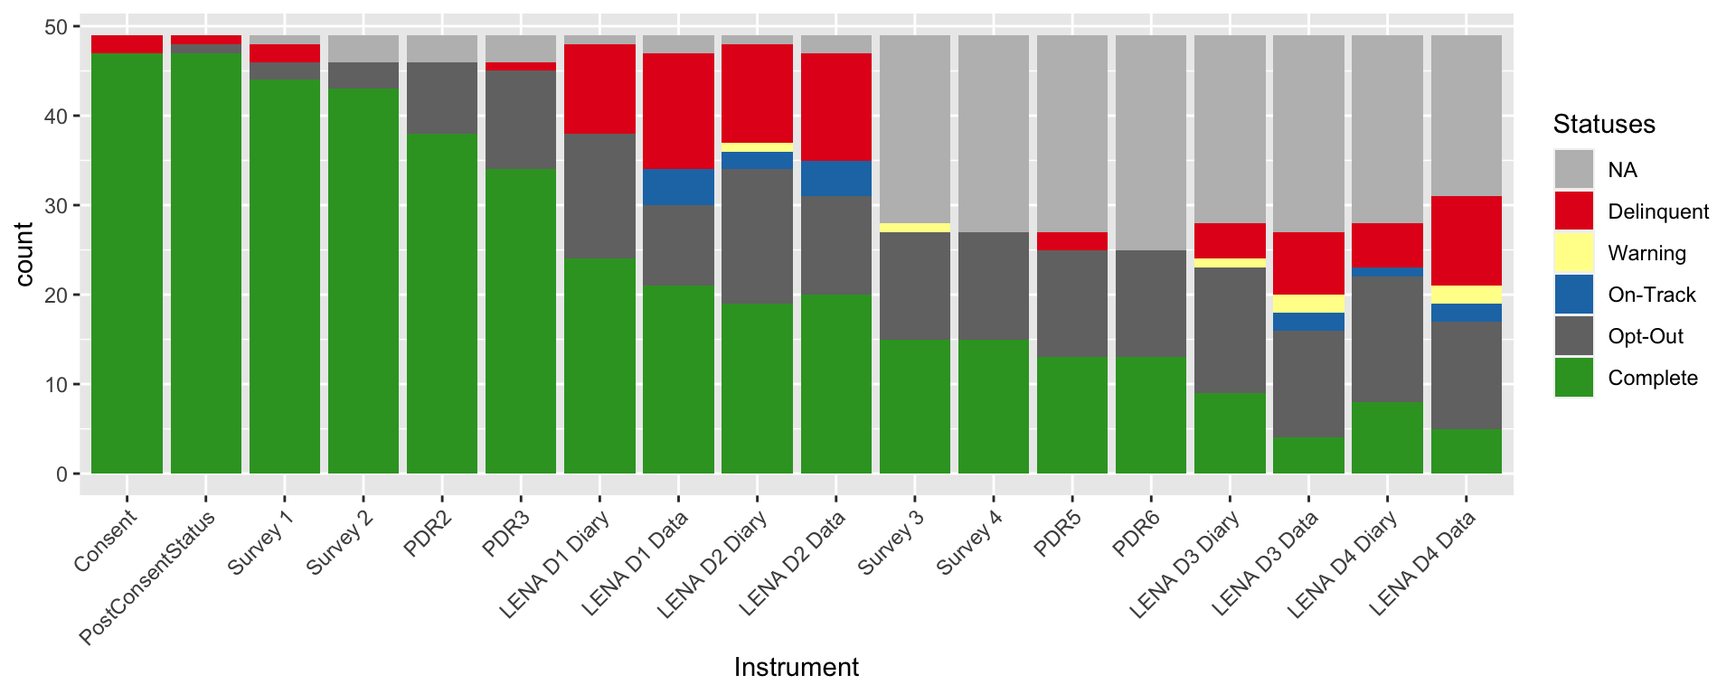
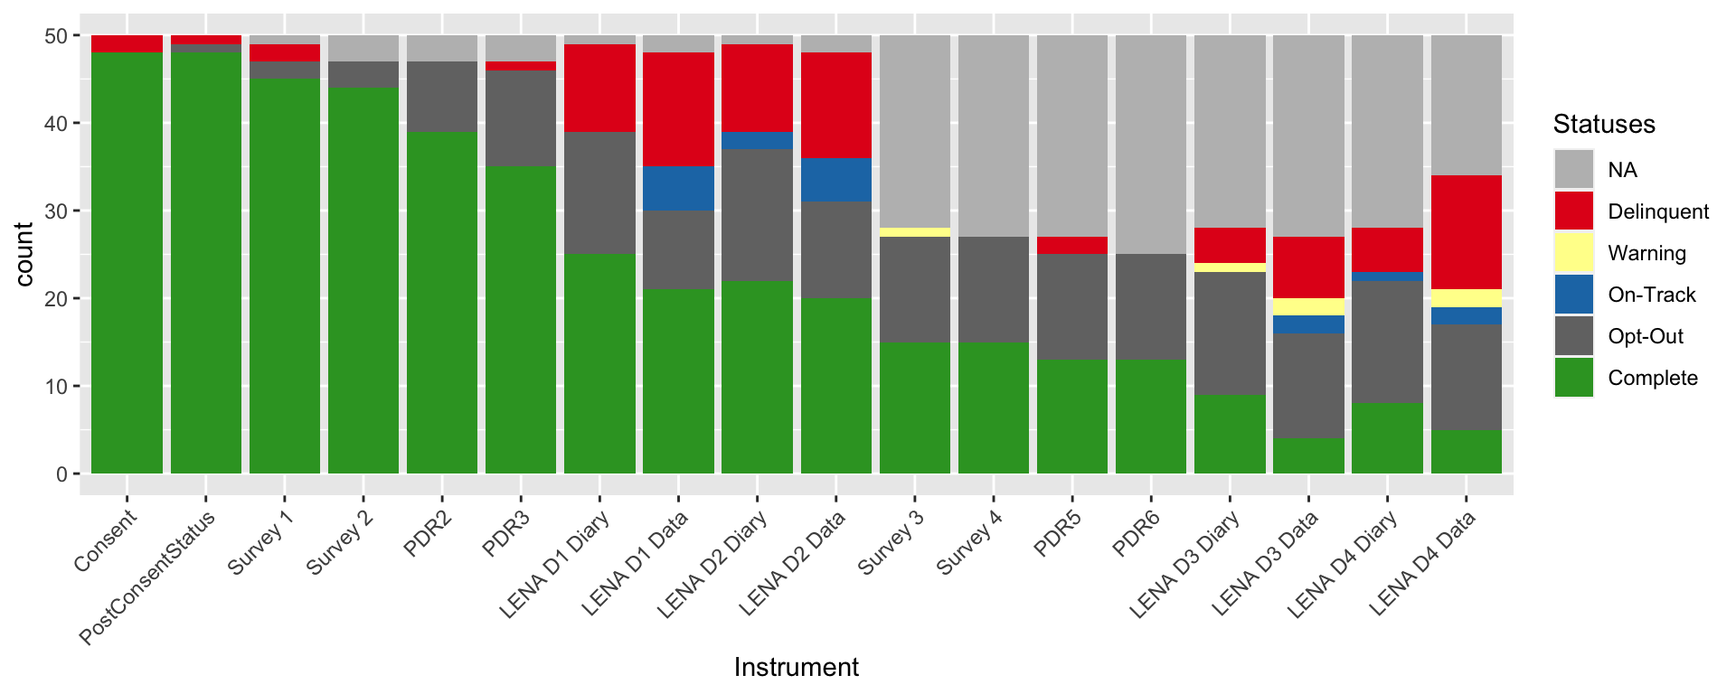
Update definitions

diff --git a/_site/reports.html b/_site/reports.html
@@ -399,7 +399,7 @@ $(document).ready(function () {
 </div>
 <center>
 <div id="htmlwidget-1fcff53b1c506bc87854" style="width:960px;height:384px;" class="plotly html-widget"></div>
-<script type="application/json" data-for="htmlwidget-1fcff53b1c506bc87854">{"x":{"data":[{"x":[1594210295,1595855440,1595947129,1596636699,1597147658,1597190400,1597276800,1597402867,1598436608,1598538979,1598541299,1598955066,1599570320,1600250194,1600255992,1600300800,1600355481,1600387200,1600863340,1601302221,1601566658,1602239005,1603368728,1603379955,1603670400,1603977413,1604491899,1604751373,1605089156,1605139200,1605179257,1605721538,1605872792,1607040000,1607472000,1607644800,1607687486,1609891200,1609897301,1611187200,1611878400,1612396800,1612396800,1612396800,1611878400,1611187200,1609897301,1609891200,1607687486,1607644800,1607472000,1607040000,1605872792,1605721538,1605179257,1605139200,1605089156,1604751373,1604491899,1603977413,1603670400,1603379955,1603368728,1602239005,1601566658,1601302221,1600863340,1600387200,1600355481,1600300800,1600255992,1600250194,1599570320,1598955066,1598541299,1598538979,1598436608,1597402867,1597276800,1597190400,1597147658,1596636699,1595947129,1595855440,1594210295,1594210295],"y":[0,0,0,0,0,0,0,0,0,0,0,0,0,0,0,0,0,0,0,0,0,0,0,0,0,0,0,0,0,0,0,0,0,0,0,0,0,0,0,0,0,0,0,43,42,41,40,39,38,37,36,35,34,33,32,31,30,29,28,27,26,25,24,23,22,21,20,19,18,17,16,15,14,13,12,11,10,9,8,6,5,4,3,2,1,0],"text":["InformedConsent: 2020-07-08 19:11:35<br />Cumulative:  1","InformedConsent: 2020-07-27 20:10:40<br />Cumulative:  2","InformedConsent: 2020-07-28 21:38:49<br />Cumulative:  3","InformedConsent: 2020-08-05 21:11:39<br />Cumulative:  4","InformedConsent: 2020-08-11 19:07:38<br />Cumulative:  5","InformedConsent: 2020-08-12 07:00:00<br />Cumulative:  6","InformedConsent: 2020-08-13 07:00:00<br />Cumulative:  8","InformedConsent: 2020-08-14 18:01:07<br />Cumulative:  9","InformedConsent: 2020-08-26 17:10:08<br />Cumulative: 10","InformedConsent: 2020-08-27 21:36:19<br />Cumulative: 11","InformedConsent: 2020-08-27 22:14:59<br />Cumulative: 12","InformedConsent: 2020-09-01 17:11:06<br />Cumulative: 13","InformedConsent: 2020-09-08 20:05:20<br />Cumulative: 14","InformedConsent: 2020-09-16 16:56:34<br />Cumulative: 15","InformedConsent: 2020-09-16 18:33:12<br />Cumulative: 16","InformedConsent: 2020-09-17 07:00:00<br />Cumulative: 17","InformedConsent: 2020-09-17 22:11:21<br />Cumulative: 18","InformedConsent: 2020-09-18 07:00:00<br />Cumulative: 19","InformedConsent: 2020-09-23 19:15:40<br />Cumulative: 20","InformedConsent: 2020-09-28 21:10:21<br />Cumulative: 21","InformedConsent: 2020-10-01 22:37:38<br />Cumulative: 22","InformedConsent: 2020-10-09 17:23:25<br />Cumulative: 23","InformedConsent: 2020-10-22 19:12:08<br />Cumulative: 24","InformedConsent: 2020-10-22 22:19:15<br />Cumulative: 25","InformedConsent: 2020-10-26 07:00:00<br />Cumulative: 26","InformedConsent: 2020-10-29 20:16:53<br />Cumulative: 27","InformedConsent: 2020-11-04 20:11:39<br />Cumulative: 28","InformedConsent: 2020-11-07 20:16:13<br />Cumulative: 29","InformedConsent: 2020-11-11 18:05:56<br />Cumulative: 30","InformedConsent: 2020-11-12 08:00:00<br />Cumulative: 31","InformedConsent: 2020-11-12 19:07:37<br />Cumulative: 32","InformedConsent: 2020-11-19 01:45:38<br />Cumulative: 33","InformedConsent: 2020-11-20 19:46:32<br />Cumulative: 34","InformedConsent: 2020-12-04 08:00:00<br />Cumulative: 35","InformedConsent: 2020-12-09 08:00:00<br />Cumulative: 36","InformedConsent: 2020-12-11 08:00:00<br />Cumulative: 37","InformedConsent: 2020-12-11 19:51:26<br />Cumulative: 38","InformedConsent: 2021-01-06 08:00:00<br />Cumulative: 39","InformedConsent: 2021-01-06 09:41:41<br />Cumulative: 40","InformedConsent: 2021-01-21 08:00:00<br />Cumulative: 41","InformedConsent: 2021-01-29 08:00:00<br />Cumulative: 42","InformedConsent: 2021-02-04 08:00:00<br />Cumulative: 43","InformedConsent: 2021-02-04 08:00:00<br />Cumulative: 43","InformedConsent: 2021-02-04 08:00:00<br />Cumulative: 43","InformedConsent: 2021-01-29 08:00:00<br />Cumulative: 42","InformedConsent: 2021-01-21 08:00:00<br />Cumulative: 41","InformedConsent: 2021-01-06 09:41:41<br />Cumulative: 40","InformedConsent: 2021-01-06 08:00:00<br />Cumulative: 39","InformedConsent: 2020-12-11 19:51:26<br />Cumulative: 38","InformedConsent: 2020-12-11 08:00:00<br />Cumulative: 37","InformedConsent: 2020-12-09 08:00:00<br />Cumulative: 36","InformedConsent: 2020-12-04 08:00:00<br />Cumulative: 35","InformedConsent: 2020-11-20 19:46:32<br />Cumulative: 34","InformedConsent: 2020-11-19 01:45:38<br />Cumulative: 33","InformedConsent: 2020-11-12 19:07:37<br />Cumulative: 32","InformedConsent: 2020-11-12 08:00:00<br />Cumulative: 31","InformedConsent: 2020-11-11 18:05:56<br />Cumulative: 30","InformedConsent: 2020-11-07 20:16:13<br />Cumulative: 29","InformedConsent: 2020-11-04 20:11:39<br />Cumulative: 28","InformedConsent: 2020-10-29 20:16:53<br />Cumulative: 27","InformedConsent: 2020-10-26 07:00:00<br />Cumulative: 26","InformedConsent: 2020-10-22 22:19:15<br />Cumulative: 25","InformedConsent: 2020-10-22 19:12:08<br />Cumulative: 24","InformedConsent: 2020-10-09 17:23:25<br />Cumulative: 23","InformedConsent: 2020-10-01 22:37:38<br />Cumulative: 22","InformedConsent: 2020-09-28 21:10:21<br />Cumulative: 21","InformedConsent: 2020-09-23 19:15:40<br />Cumulative: 20","InformedConsent: 2020-09-18 07:00:00<br />Cumulative: 19","InformedConsent: 2020-09-17 22:11:21<br />Cumulative: 18","InformedConsent: 2020-09-17 07:00:00<br />Cumulative: 17","InformedConsent: 2020-09-16 18:33:12<br />Cumulative: 16","InformedConsent: 2020-09-16 16:56:34<br />Cumulative: 15","InformedConsent: 2020-09-08 20:05:20<br />Cumulative: 14","InformedConsent: 2020-09-01 17:11:06<br />Cumulative: 13","InformedConsent: 2020-08-27 22:14:59<br />Cumulative: 12","InformedConsent: 2020-08-27 21:36:19<br />Cumulative: 11","InformedConsent: 2020-08-26 17:10:08<br />Cumulative: 10","InformedConsent: 2020-08-14 18:01:07<br />Cumulative:  9","InformedConsent: 2020-08-13 07:00:00<br />Cumulative:  8","InformedConsent: 2020-08-12 07:00:00<br />Cumulative:  6","InformedConsent: 2020-08-11 19:07:38<br />Cumulative:  5","InformedConsent: 2020-08-05 21:11:39<br />Cumulative:  4","InformedConsent: 2020-07-28 21:38:49<br />Cumulative:  3","InformedConsent: 2020-07-27 20:10:40<br />Cumulative:  2","InformedConsent: 2020-07-08 19:11:35<br />Cumulative:  1","InformedConsent: 2020-07-08 19:11:35<br />Cumulative:  1"],"type":"scatter","mode":"lines","line":{"width":1.88976377952756,"color":"transparent","dash":"solid"},"fill":"toself","fillcolor":"rgba(105,179,162,0.5)","hoveron":"points","showlegend":false,"xaxis":"x","yaxis":"y","hoverinfo":"text","frame":null},{"x":[1594210295,1595855440,1595947129,1596636699,1597147658,1597190400,1597276800,1597402867,1598436608,1598538979,1598541299,1598955066,1599570320,1600250194,1600255992,1600300800,1600355481,1600387200,1600863340,1601302221,1601566658,1602239005,1603368728,1603379955,1603670400,1603977413,1604491899,1604751373,1605089156,1605139200,1605179257,1605721538,1605872792,1607040000,1607472000,1607644800,1607687486,1609891200,1609897301,1611187200,1611878400,1612396800,null],"y":[1,2,3,4,5,6,8,9,10,11,12,13,14,15,16,17,18,19,20,21,22,23,24,25,26,27,28,29,30,31,32,33,34,35,36,37,38,39,40,41,42,43,48],"text":["InformedConsent: 2020-07-08 12:11:35<br />Cumulative:  1","InformedConsent: 2020-07-27 13:10:40<br />Cumulative:  2","InformedConsent: 2020-07-28 14:38:49<br />Cumulative:  3","InformedConsent: 2020-08-05 14:11:39<br />Cumulative:  4","InformedConsent: 2020-08-11 12:07:38<br />Cumulative:  5","InformedConsent: 2020-08-12 00:00:00<br />Cumulative:  6","InformedConsent: 2020-08-13 00:00:00<br />Cumulative:  8","InformedConsent: 2020-08-14 11:01:07<br />Cumulative:  9","InformedConsent: 2020-08-26 10:10:08<br />Cumulative: 10","InformedConsent: 2020-08-27 14:36:19<br />Cumulative: 11","InformedConsent: 2020-08-27 15:14:59<br />Cumulative: 12","InformedConsent: 2020-09-01 10:11:06<br />Cumulative: 13","InformedConsent: 2020-09-08 13:05:20<br />Cumulative: 14","InformedConsent: 2020-09-16 09:56:34<br />Cumulative: 15","InformedConsent: 2020-09-16 11:33:12<br />Cumulative: 16","InformedConsent: 2020-09-17 00:00:00<br />Cumulative: 17","InformedConsent: 2020-09-17 15:11:21<br />Cumulative: 18","InformedConsent: 2020-09-18 00:00:00<br />Cumulative: 19","InformedConsent: 2020-09-23 12:15:40<br />Cumulative: 20","InformedConsent: 2020-09-28 14:10:21<br />Cumulative: 21","InformedConsent: 2020-10-01 15:37:38<br />Cumulative: 22","InformedConsent: 2020-10-09 10:23:25<br />Cumulative: 23","InformedConsent: 2020-10-22 12:12:08<br />Cumulative: 24","InformedConsent: 2020-10-22 15:19:15<br />Cumulative: 25","InformedConsent: 2020-10-26 00:00:00<br />Cumulative: 26","InformedConsent: 2020-10-29 13:16:53<br />Cumulative: 27","InformedConsent: 2020-11-04 12:11:39<br />Cumulative: 28","InformedConsent: 2020-11-07 12:16:13<br />Cumulative: 29","InformedConsent: 2020-11-11 10:05:56<br />Cumulative: 30","InformedConsent: 2020-11-12 00:00:00<br />Cumulative: 31","InformedConsent: 2020-11-12 11:07:37<br />Cumulative: 32","InformedConsent: 2020-11-18 17:45:38<br />Cumulative: 33","InformedConsent: 2020-11-20 11:46:32<br />Cumulative: 34","InformedConsent: 2020-12-04 00:00:00<br />Cumulative: 35","InformedConsent: 2020-12-09 00:00:00<br />Cumulative: 36","InformedConsent: 2020-12-11 00:00:00<br />Cumulative: 37","InformedConsent: 2020-12-11 11:51:26<br />Cumulative: 38","InformedConsent: 2021-01-06 00:00:00<br />Cumulative: 39","InformedConsent: 2021-01-06 01:41:41<br />Cumulative: 40","InformedConsent: 2021-01-21 00:00:00<br />Cumulative: 41","InformedConsent: 2021-01-29 00:00:00<br />Cumulative: 42","InformedConsent: 2021-02-04 00:00:00<br />Cumulative: 43","InformedConsent: NA<br />Cumulative: 48"],"type":"scatter","mode":"lines","line":{"width":1.88976377952756,"color":"rgba(105,179,162,1)","dash":"solid"},"hoveron":"points","showlegend":false,"xaxis":"x","yaxis":"y","hoverinfo":"text","frame":null}],"layout":{"margin":{"t":65.813200498132,"r":39.8505603985056,"b":80.8634288086343,"l":70.9007887090079},"font":{"color":"rgba(0,0,0,1)","family":"Arial Narrow","size":15.2760481527605},"xaxis":{"domain":[0,1],"automargin":true,"type":"linear","autorange":false,"range":[1593300969.75,1613306125.25],"tickmode":"array","ticktext":["Jul","Oct","Jan"],"tickvals":[1593561600,1601510400,1609459200],"categoryorder":"array","categoryarray":["Jul","Oct","Jan"],"nticks":null,"ticks":"","tickcolor":null,"ticklen":3.81901203819012,"tickwidth":0,"showticklabels":true,"tickfont":{"color":"rgba(77,77,77,1)","family":"Arial Narrow","size":15.2760481527605},"tickangle":-0,"showline":false,"linecolor":null,"linewidth":0,"showgrid":true,"gridcolor":"rgba(204,204,204,1)","gridwidth":0.265670402656704,"zeroline":false,"anchor":"y","title":{"text":"Time","font":{"color":"rgba(0,0,0,1)","family":"Arial Narrow","size":11.9551681195517}},"hoverformat":".2f"},"yaxis":{"domain":[0,1],"automargin":true,"type":"linear","autorange":false,"range":[-2.4,50.4],"tickmode":"array","ticktext":["0","10","20","30","40","50"],"tickvals":[0,10,20,30,40,50],"categoryorder":"array","categoryarray":["0","10","20","30","40","50"],"nticks":null,"ticks":"","tickcolor":null,"ticklen":3.81901203819012,"tickwidth":0,"showticklabels":true,"tickfont":{"color":"rgba(77,77,77,1)","family":"Arial Narrow","size":15.2760481527605},"tickangle":-0,"showline":false,"linecolor":null,"linewidth":0,"showgrid":true,"gridcolor":"rgba(204,204,204,1)","gridwidth":0.265670402656704,"zeroline":false,"anchor":"x","title":{"text":"Dyad Count","font":{"color":"rgba(0,0,0,1)","family":"Arial Narrow","size":11.9551681195517}},"hoverformat":".2f"},"shapes":[{"type":"rect","fillcolor":null,"line":{"color":null,"width":0,"linetype":[]},"yref":"paper","xref":"paper","x0":0,"x1":1,"y0":0,"y1":1}],"showlegend":false,"legend":{"bgcolor":null,"bordercolor":null,"borderwidth":0,"font":{"color":"rgba(0,0,0,1)","family":"Arial Narrow","size":12.2208385222084}},"hovermode":"closest","barmode":"relative"},"config":{"doubleClick":"reset","showSendToCloud":false},"source":"A","attrs":{"32694aafd9cc":{"x":{},"y":{},"type":"scatter"},"32695f040662":{"x":{},"y":{}}},"cur_data":"32694aafd9cc","visdat":{"32694aafd9cc":["function (y) ","x"],"32695f040662":["function (y) ","x"]},"highlight":{"on":"plotly_click","persistent":false,"dynamic":false,"selectize":false,"opacityDim":0.2,"selected":{"opacity":1},"debounce":0},"shinyEvents":["plotly_hover","plotly_click","plotly_selected","plotly_relayout","plotly_brushed","plotly_brushing","plotly_clickannotation","plotly_doubleclick","plotly_deselect","plotly_afterplot","plotly_sunburstclick"],"base_url":"https://plot.ly"},"evals":[],"jsHooks":[]}</script><img src="reports_files/figure-html/SEAL%20Conditions%20Plot-2.png" width="960" />
+<script type="application/json" data-for="htmlwidget-1fcff53b1c506bc87854">{"x":{"data":[{"x":[1594210295,1595855440,1595947129,1596636699,1597147658,1597190400,1597276800,1597402867,1598436608,1598538979,1598541299,1598955066,1599570320,1600250194,1600255992,1600300800,1600355481,1600387200,1600863340,1601302221,1601566658,1602239005,1603368728,1603379955,1603670400,1603977413,1604491899,1604751373,1605089156,1605139200,1605179257,1605721538,1605872792,1607040000,1607472000,1607644800,1607687486,1609891200,1609897301,1611187200,1611878400,1612396800,1612396800,1612396800,1611878400,1611187200,1609897301,1609891200,1607687486,1607644800,1607472000,1607040000,1605872792,1605721538,1605179257,1605139200,1605089156,1604751373,1604491899,1603977413,1603670400,1603379955,1603368728,1602239005,1601566658,1601302221,1600863340,1600387200,1600355481,1600300800,1600255992,1600250194,1599570320,1598955066,1598541299,1598538979,1598436608,1597402867,1597276800,1597190400,1597147658,1596636699,1595947129,1595855440,1594210295,1594210295],"y":[0,0,0,0,0,0,0,0,0,0,0,0,0,0,0,0,0,0,0,0,0,0,0,0,0,0,0,0,0,0,0,0,0,0,0,0,0,0,0,0,0,0,0,43,42,41,40,39,38,37,36,35,34,33,32,31,30,29,28,27,26,25,24,23,22,21,20,19,18,17,16,15,14,13,12,11,10,9,8,6,5,4,3,2,1,0],"text":["InformedConsent: 2020-07-08 19:11:35<br />Cumulative:  1","InformedConsent: 2020-07-27 20:10:40<br />Cumulative:  2","InformedConsent: 2020-07-28 21:38:49<br />Cumulative:  3","InformedConsent: 2020-08-05 21:11:39<br />Cumulative:  4","InformedConsent: 2020-08-11 19:07:38<br />Cumulative:  5","InformedConsent: 2020-08-12 07:00:00<br />Cumulative:  6","InformedConsent: 2020-08-13 07:00:00<br />Cumulative:  8","InformedConsent: 2020-08-14 18:01:07<br />Cumulative:  9","InformedConsent: 2020-08-26 17:10:08<br />Cumulative: 10","InformedConsent: 2020-08-27 21:36:19<br />Cumulative: 11","InformedConsent: 2020-08-27 22:14:59<br />Cumulative: 12","InformedConsent: 2020-09-01 17:11:06<br />Cumulative: 13","InformedConsent: 2020-09-08 20:05:20<br />Cumulative: 14","InformedConsent: 2020-09-16 16:56:34<br />Cumulative: 15","InformedConsent: 2020-09-16 18:33:12<br />Cumulative: 16","InformedConsent: 2020-09-17 07:00:00<br />Cumulative: 17","InformedConsent: 2020-09-17 22:11:21<br />Cumulative: 18","InformedConsent: 2020-09-18 07:00:00<br />Cumulative: 19","InformedConsent: 2020-09-23 19:15:40<br />Cumulative: 20","InformedConsent: 2020-09-28 21:10:21<br />Cumulative: 21","InformedConsent: 2020-10-01 22:37:38<br />Cumulative: 22","InformedConsent: 2020-10-09 17:23:25<br />Cumulative: 23","InformedConsent: 2020-10-22 19:12:08<br />Cumulative: 24","InformedConsent: 2020-10-22 22:19:15<br />Cumulative: 25","InformedConsent: 2020-10-26 07:00:00<br />Cumulative: 26","InformedConsent: 2020-10-29 20:16:53<br />Cumulative: 27","InformedConsent: 2020-11-04 20:11:39<br />Cumulative: 28","InformedConsent: 2020-11-07 20:16:13<br />Cumulative: 29","InformedConsent: 2020-11-11 18:05:56<br />Cumulative: 30","InformedConsent: 2020-11-12 08:00:00<br />Cumulative: 31","InformedConsent: 2020-11-12 19:07:37<br />Cumulative: 32","InformedConsent: 2020-11-19 01:45:38<br />Cumulative: 33","InformedConsent: 2020-11-20 19:46:32<br />Cumulative: 34","InformedConsent: 2020-12-04 08:00:00<br />Cumulative: 35","InformedConsent: 2020-12-09 08:00:00<br />Cumulative: 36","InformedConsent: 2020-12-11 08:00:00<br />Cumulative: 37","InformedConsent: 2020-12-11 19:51:26<br />Cumulative: 38","InformedConsent: 2021-01-06 08:00:00<br />Cumulative: 39","InformedConsent: 2021-01-06 09:41:41<br />Cumulative: 40","InformedConsent: 2021-01-21 08:00:00<br />Cumulative: 41","InformedConsent: 2021-01-29 08:00:00<br />Cumulative: 42","InformedConsent: 2021-02-04 08:00:00<br />Cumulative: 43","InformedConsent: 2021-02-04 08:00:00<br />Cumulative: 43","InformedConsent: 2021-02-04 08:00:00<br />Cumulative: 43","InformedConsent: 2021-01-29 08:00:00<br />Cumulative: 42","InformedConsent: 2021-01-21 08:00:00<br />Cumulative: 41","InformedConsent: 2021-01-06 09:41:41<br />Cumulative: 40","InformedConsent: 2021-01-06 08:00:00<br />Cumulative: 39","InformedConsent: 2020-12-11 19:51:26<br />Cumulative: 38","InformedConsent: 2020-12-11 08:00:00<br />Cumulative: 37","InformedConsent: 2020-12-09 08:00:00<br />Cumulative: 36","InformedConsent: 2020-12-04 08:00:00<br />Cumulative: 35","InformedConsent: 2020-11-20 19:46:32<br />Cumulative: 34","InformedConsent: 2020-11-19 01:45:38<br />Cumulative: 33","InformedConsent: 2020-11-12 19:07:37<br />Cumulative: 32","InformedConsent: 2020-11-12 08:00:00<br />Cumulative: 31","InformedConsent: 2020-11-11 18:05:56<br />Cumulative: 30","InformedConsent: 2020-11-07 20:16:13<br />Cumulative: 29","InformedConsent: 2020-11-04 20:11:39<br />Cumulative: 28","InformedConsent: 2020-10-29 20:16:53<br />Cumulative: 27","InformedConsent: 2020-10-26 07:00:00<br />Cumulative: 26","InformedConsent: 2020-10-22 22:19:15<br />Cumulative: 25","InformedConsent: 2020-10-22 19:12:08<br />Cumulative: 24","InformedConsent: 2020-10-09 17:23:25<br />Cumulative: 23","InformedConsent: 2020-10-01 22:37:38<br />Cumulative: 22","InformedConsent: 2020-09-28 21:10:21<br />Cumulative: 21","InformedConsent: 2020-09-23 19:15:40<br />Cumulative: 20","InformedConsent: 2020-09-18 07:00:00<br />Cumulative: 19","InformedConsent: 2020-09-17 22:11:21<br />Cumulative: 18","InformedConsent: 2020-09-17 07:00:00<br />Cumulative: 17","InformedConsent: 2020-09-16 18:33:12<br />Cumulative: 16","InformedConsent: 2020-09-16 16:56:34<br />Cumulative: 15","InformedConsent: 2020-09-08 20:05:20<br />Cumulative: 14","InformedConsent: 2020-09-01 17:11:06<br />Cumulative: 13","InformedConsent: 2020-08-27 22:14:59<br />Cumulative: 12","InformedConsent: 2020-08-27 21:36:19<br />Cumulative: 11","InformedConsent: 2020-08-26 17:10:08<br />Cumulative: 10","InformedConsent: 2020-08-14 18:01:07<br />Cumulative:  9","InformedConsent: 2020-08-13 07:00:00<br />Cumulative:  8","InformedConsent: 2020-08-12 07:00:00<br />Cumulative:  6","InformedConsent: 2020-08-11 19:07:38<br />Cumulative:  5","InformedConsent: 2020-08-05 21:11:39<br />Cumulative:  4","InformedConsent: 2020-07-28 21:38:49<br />Cumulative:  3","InformedConsent: 2020-07-27 20:10:40<br />Cumulative:  2","InformedConsent: 2020-07-08 19:11:35<br />Cumulative:  1","InformedConsent: 2020-07-08 19:11:35<br />Cumulative:  1"],"type":"scatter","mode":"lines","line":{"width":1.88976377952756,"color":"transparent","dash":"solid"},"fill":"toself","fillcolor":"rgba(105,179,162,0.5)","hoveron":"points","showlegend":false,"xaxis":"x","yaxis":"y","hoverinfo":"text","frame":null},{"x":[1594210295,1595855440,1595947129,1596636699,1597147658,1597190400,1597276800,1597402867,1598436608,1598538979,1598541299,1598955066,1599570320,1600250194,1600255992,1600300800,1600355481,1600387200,1600863340,1601302221,1601566658,1602239005,1603368728,1603379955,1603670400,1603977413,1604491899,1604751373,1605089156,1605139200,1605179257,1605721538,1605872792,1607040000,1607472000,1607644800,1607687486,1609891200,1609897301,1611187200,1611878400,1612396800,null],"y":[1,2,3,4,5,6,8,9,10,11,12,13,14,15,16,17,18,19,20,21,22,23,24,25,26,27,28,29,30,31,32,33,34,35,36,37,38,39,40,41,42,43,48],"text":["InformedConsent: 2020-07-08 12:11:35<br />Cumulative:  1","InformedConsent: 2020-07-27 13:10:40<br />Cumulative:  2","InformedConsent: 2020-07-28 14:38:49<br />Cumulative:  3","InformedConsent: 2020-08-05 14:11:39<br />Cumulative:  4","InformedConsent: 2020-08-11 12:07:38<br />Cumulative:  5","InformedConsent: 2020-08-12 00:00:00<br />Cumulative:  6","InformedConsent: 2020-08-13 00:00:00<br />Cumulative:  8","InformedConsent: 2020-08-14 11:01:07<br />Cumulative:  9","InformedConsent: 2020-08-26 10:10:08<br />Cumulative: 10","InformedConsent: 2020-08-27 14:36:19<br />Cumulative: 11","InformedConsent: 2020-08-27 15:14:59<br />Cumulative: 12","InformedConsent: 2020-09-01 10:11:06<br />Cumulative: 13","InformedConsent: 2020-09-08 13:05:20<br />Cumulative: 14","InformedConsent: 2020-09-16 09:56:34<br />Cumulative: 15","InformedConsent: 2020-09-16 11:33:12<br />Cumulative: 16","InformedConsent: 2020-09-17 00:00:00<br />Cumulative: 17","InformedConsent: 2020-09-17 15:11:21<br />Cumulative: 18","InformedConsent: 2020-09-18 00:00:00<br />Cumulative: 19","InformedConsent: 2020-09-23 12:15:40<br />Cumulative: 20","InformedConsent: 2020-09-28 14:10:21<br />Cumulative: 21","InformedConsent: 2020-10-01 15:37:38<br />Cumulative: 22","InformedConsent: 2020-10-09 10:23:25<br />Cumulative: 23","InformedConsent: 2020-10-22 12:12:08<br />Cumulative: 24","InformedConsent: 2020-10-22 15:19:15<br />Cumulative: 25","InformedConsent: 2020-10-26 00:00:00<br />Cumulative: 26","InformedConsent: 2020-10-29 13:16:53<br />Cumulative: 27","InformedConsent: 2020-11-04 12:11:39<br />Cumulative: 28","InformedConsent: 2020-11-07 12:16:13<br />Cumulative: 29","InformedConsent: 2020-11-11 10:05:56<br />Cumulative: 30","InformedConsent: 2020-11-12 00:00:00<br />Cumulative: 31","InformedConsent: 2020-11-12 11:07:37<br />Cumulative: 32","InformedConsent: 2020-11-18 17:45:38<br />Cumulative: 33","InformedConsent: 2020-11-20 11:46:32<br />Cumulative: 34","InformedConsent: 2020-12-04 00:00:00<br />Cumulative: 35","InformedConsent: 2020-12-09 00:00:00<br />Cumulative: 36","InformedConsent: 2020-12-11 00:00:00<br />Cumulative: 37","InformedConsent: 2020-12-11 11:51:26<br />Cumulative: 38","InformedConsent: 2021-01-06 00:00:00<br />Cumulative: 39","InformedConsent: 2021-01-06 01:41:41<br />Cumulative: 40","InformedConsent: 2021-01-21 00:00:00<br />Cumulative: 41","InformedConsent: 2021-01-29 00:00:00<br />Cumulative: 42","InformedConsent: 2021-02-04 00:00:00<br />Cumulative: 43","InformedConsent: NA<br />Cumulative: 48"],"type":"scatter","mode":"lines","line":{"width":1.88976377952756,"color":"rgba(105,179,162,1)","dash":"solid"},"hoveron":"points","showlegend":false,"xaxis":"x","yaxis":"y","hoverinfo":"text","frame":null}],"layout":{"margin":{"t":65.813200498132,"r":39.8505603985056,"b":80.8634288086343,"l":70.9007887090079},"font":{"color":"rgba(0,0,0,1)","family":"Arial Narrow","size":15.2760481527605},"xaxis":{"domain":[0,1],"automargin":true,"type":"linear","autorange":false,"range":[1593300969.75,1613306125.25],"tickmode":"array","ticktext":["Jul","Oct","Jan"],"tickvals":[1593561600,1601510400,1609459200],"categoryorder":"array","categoryarray":["Jul","Oct","Jan"],"nticks":null,"ticks":"","tickcolor":null,"ticklen":3.81901203819012,"tickwidth":0,"showticklabels":true,"tickfont":{"color":"rgba(77,77,77,1)","family":"Arial Narrow","size":15.2760481527605},"tickangle":-0,"showline":false,"linecolor":null,"linewidth":0,"showgrid":true,"gridcolor":"rgba(204,204,204,1)","gridwidth":0.265670402656704,"zeroline":false,"anchor":"y","title":{"text":"Time","font":{"color":"rgba(0,0,0,1)","family":"Arial Narrow","size":11.9551681195517}},"hoverformat":".2f"},"yaxis":{"domain":[0,1],"automargin":true,"type":"linear","autorange":false,"range":[-2.4,50.4],"tickmode":"array","ticktext":["0","10","20","30","40","50"],"tickvals":[0,10,20,30,40,50],"categoryorder":"array","categoryarray":["0","10","20","30","40","50"],"nticks":null,"ticks":"","tickcolor":null,"ticklen":3.81901203819012,"tickwidth":0,"showticklabels":true,"tickfont":{"color":"rgba(77,77,77,1)","family":"Arial Narrow","size":15.2760481527605},"tickangle":-0,"showline":false,"linecolor":null,"linewidth":0,"showgrid":true,"gridcolor":"rgba(204,204,204,1)","gridwidth":0.265670402656704,"zeroline":false,"anchor":"x","title":{"text":"Dyad Count","font":{"color":"rgba(0,0,0,1)","family":"Arial Narrow","size":11.9551681195517}},"hoverformat":".2f"},"shapes":[{"type":"rect","fillcolor":null,"line":{"color":null,"width":0,"linetype":[]},"yref":"paper","xref":"paper","x0":0,"x1":1,"y0":0,"y1":1}],"showlegend":false,"legend":{"bgcolor":null,"bordercolor":null,"borderwidth":0,"font":{"color":"rgba(0,0,0,1)","family":"Arial Narrow","size":12.2208385222084}},"hovermode":"closest","barmode":"relative"},"config":{"doubleClick":"reset","showSendToCloud":false},"source":"A","attrs":{"5fb121296f60":{"x":{},"y":{},"type":"scatter"},"5fb1274f18a2":{"x":{},"y":{}}},"cur_data":"5fb121296f60","visdat":{"5fb121296f60":["function (y) ","x"],"5fb1274f18a2":["function (y) ","x"]},"highlight":{"on":"plotly_click","persistent":false,"dynamic":false,"selectize":false,"opacityDim":0.2,"selected":{"opacity":1},"debounce":0},"shinyEvents":["plotly_hover","plotly_click","plotly_selected","plotly_relayout","plotly_brushed","plotly_brushing","plotly_clickannotation","plotly_doubleclick","plotly_deselect","plotly_afterplot","plotly_sunburstclick"],"base_url":"https://plot.ly"},"evals":[],"jsHooks":[]}</script><img src="reports_files/figure-html/SEAL%20Conditions%20Plot-2.png" width="960" />
 <center>
 <div>
 

diff --git a/_site/enrollment.html b/_site/enrollment.html
@@ -389,7 +389,7 @@ $(document).ready(function () {
 <div class="btn-group btn-group-justified">
 <div class="btn-group">
 <button type="button" class="btn btn-outline-dark .w-100">
-<strong>Consents Complete</strong><br>47
+<strong>Consents Complete</strong><br>48
 </button>
 </div>
 <div class="btn-group">
@@ -400,7 +400,7 @@ $(document).ready(function () {
 </div>
 <div class="btn-group btn-group-justified">
 <div class="btn-group">
-<a href="#" class="btn btn-default"><strong>Post-Consent Complete</strong><br>47</a>
+<a href="#" class="btn btn-default"><strong>Post-Consent Complete</strong><br>48</a>
 </div>
 <div class="btn-group">
 <a href="#" class="btn btn-default"><strong>Post-Consent In Progress</strong><br>2</a>
@@ -408,10 +408,10 @@ $(document).ready(function () {
 </div>
 <div class="btn-group btn-group-justified">
 <div class="btn-group">
-<a href="#" class="btn btn-primary"><strong>Wave 1 Complete</strong><br>22</a>
+<a href="#" class="btn btn-primary"><strong>Wave 1 Complete</strong><br>25</a>
 </div>
 <div class="btn-group">
-<a href="#" class="btn btn-primary"><strong>Wave 1 In Progress</strong><br>15</a>
+<a href="#" class="btn btn-primary"><strong>Wave 1 In Progress</strong><br>13</a>
 </div>
 <div class="btn-group">
 <a href="#" class="btn btn-primary"><strong>Wave 1 Drop-Outs</strong><br> 9 </a>
@@ -422,7 +422,7 @@ $(document).ready(function () {
 <a href="#" class="btn btn-success"><strong>Intervention Complete</strong><br>16</a>
 </div>
 <div class="btn-group">
-<a href="#" class="btn btn-success"><strong>Intervention In Progress</strong><br>8</a>
+<a href="#" class="btn btn-success"><strong>Intervention In Progress</strong><br>12</a>
 </div>
 <div class="btn-group">
 <a href="#" class="btn btn-success"><strong>Intervention Drop-Outs</strong><br>3 </a>
@@ -433,7 +433,7 @@ $(document).ready(function () {
 <a href="#" class="btn btn-info"><strong>Wave 2 Complete</strong><br>10</a>
 </div>
 <div class="btn-group">
-<a href="#" class="btn btn-info"><strong>Wave 2 In Progress</strong><br>6</a>
+<a href="#" class="btn btn-info"><strong>Wave 2 In Progress</strong><br>0</a>
 </div>
 <div class="btn-group">
 <a href="#" class="btn btn-info"><strong>Wave 2 Drop-Outs</strong><br>0 </a>
@@ -455,7 +455,7 @@ $(document).ready(function () {
 <a href="#" class="btn btn-danger"><strong>Total Complete with Study</strong><br>TBD</a>
 </div>
 <div class="btn-group">
-<a href="#" class="btn btn-danger"><strong>Total In Progress</strong><br> 39 </a>
+<a href="#" class="btn btn-danger"><strong>Total In Progress</strong><br> 35 </a>
 </div>
 <div class="btn-group">
 <a href="#" class="btn btn-danger"><strong>Total Drop-Outs</strong><br>12</a>
@@ -502,7 +502,7 @@ NA
 Consent
 </td>
 <td style="text-align:right;">
-47
+48
 </td>
 <td style="text-align:right;">
 0
@@ -525,7 +525,7 @@ Consent
 Post Consent
 </td>
 <td style="text-align:right;">
-47
+48
 </td>
 <td style="text-align:right;">
 1
@@ -548,7 +548,7 @@ Post Consent
 Survey 1
 </td>
 <td style="text-align:right;">
-44
+45
 </td>
 <td style="text-align:right;">
 2
@@ -571,7 +571,7 @@ Survey 1
 Survey 2
 </td>
 <td style="text-align:right;">
-43
+44
 </td>
 <td style="text-align:right;">
 3
@@ -594,7 +594,7 @@ Survey 2
 PDR2
 </td>
 <td style="text-align:right;">
-38
+39
 </td>
 <td style="text-align:right;">
 8
@@ -617,7 +617,7 @@ PDR2
 PDR3
 </td>
 <td style="text-align:right;">
-34
+35
 </td>
 <td style="text-align:right;">
 11
@@ -640,7 +640,7 @@ PDR3
 LENA D1 Diary
 </td>
 <td style="text-align:right;">
-24
+25
 </td>
 <td style="text-align:right;">
 14
@@ -669,7 +669,7 @@ LENA D1 Data
 9
 </td>
 <td style="text-align:right;">
-4
+5
 </td>
 <td style="text-align:right;">
 0
@@ -686,7 +686,7 @@ LENA D1 Data
 LENA D2 Diary
 </td>
 <td style="text-align:right;">
-19
+22
 </td>
 <td style="text-align:right;">
 15
@@ -695,10 +695,10 @@ LENA D2 Diary
 2
 </td>
 <td style="text-align:right;">
-1
+0
 </td>
 <td style="text-align:right;">
-11
+10
 </td>
 <td style="text-align:right;">
 1
@@ -715,7 +715,7 @@ LENA D2 Data
 11
 </td>
 <td style="text-align:right;">
-4
+5
 </td>
 <td style="text-align:right;">
 0
@@ -747,7 +747,7 @@ Survey 3
 0
 </td>
 <td style="text-align:right;">
-21
+22
 </td>
 </tr>
 <tr>
@@ -770,7 +770,7 @@ Survey 4
 0
 </td>
 <td style="text-align:right;">
-22
+23
 </td>
 </tr>
 <tr>
@@ -793,7 +793,7 @@ PDR5
 2
 </td>
 <td style="text-align:right;">
-22
+23
 </td>
 </tr>
 <tr>
@@ -816,7 +816,7 @@ PDR6
 0
 </td>
 <td style="text-align:right;">
-24
+25
 </td>
 </tr>
 <tr>
@@ -839,7 +839,7 @@ LENA D3 Diary
 4
 </td>
 <td style="text-align:right;">
-21
+22
 </td>
 </tr>
 <tr>
@@ -862,7 +862,7 @@ LENA D3 Data
 7
 </td>
 <td style="text-align:right;">
-22
+23
 </td>
 </tr>
 <tr>
@@ -885,7 +885,7 @@ LENA D4 Diary
 5
 </td>
 <td style="text-align:right;">
-21
+22
 </td>
 </tr>
 <tr>
@@ -905,10 +905,10 @@ LENA D4 Data
 2
 </td>
 <td style="text-align:right;">
-10
+13
 </td>
 <td style="text-align:right;">
-18
+16
 </td>
 </tr>
 </tbody>
